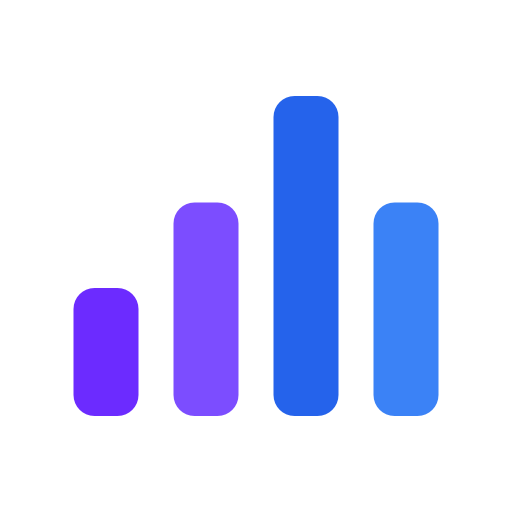
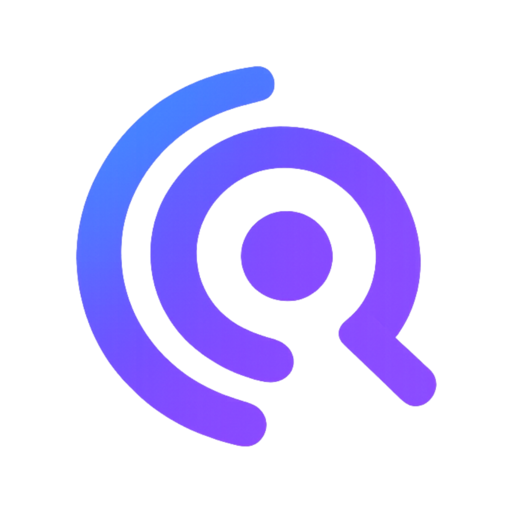
chore(brand): atualiza simbolo oficial para o novo desenho (aneis + Q) (#1550)
Propaga pra brand/ (fonte oficial) o simbolo que ja estava live na pagina
/brand do SignallQ Site (protótipo "SignallQ Web - Prototipo (4)"),
substituindo o simbolo antigo de 4 barras. Regenera favicon/PWA a partir
do novo simbolo (mesma receita documentada no brand/README.md: transparente
pros icones padrao, fundo branco + ~62% de escala pros maskable/apple-touch).

Corrige de quebra um bug real: src/app/favicon.ico do Site estava servindo
um icone generico (triangulo em circulo preto), sem nenhuma relacao com a
marca -- nao era so o simbolo antigo, estava quebrado.

Tambem atualiza SignallQ Site/public/brand/ (usado pelo componente Logo.tsx,
hoje sem nenhum import real no app -- import morto, nao removido aqui por
estar fora do escopo desta tarefa).

Fora de escopo, sinalizado no brand/README.md: icone do launcher Android
(mipmaps) e favicon do SignallQ Admin continuam com o simbolo antigo --
regeneracao pendente, exige release proprio de cada produto.

diff --git a/brand/README.md b/brand/README.md
@@ -4,22 +4,48 @@ Fonte da verdade dos logos do SignallQ. **Use somente estes arquivos** em qualqu
 material (app, apresentações, site, admin, loja, ícones). Não redesenhar, não recriar
 em CSS/SVG à mão, não usar a marca anterior "linka/veloo".
 
+## Símbolo novo — "anéis + Q" (2026-08-01)
+
+Substitui o símbolo anterior de 4 barras de sinal. Origem: protótipo `SignallQ Web -
+Prototipo (4).zip` (pasta Downloads do Luiz), tela `ScreenBrand.dc.html` — já em uso na página
+`/brand` real do `SignallQ Site` (`signallq-lockup-*-bg-v5.png` e `signallq-icon-*-dark.png`)
+antes desta atualização propagar para cá. Motivo da troca: pedido direto do Luiz para alinhar a
+marca oficial (`brand/`, usada por Android e Admin) ao que já estava live no Site.
+
+Os arquivos `signallq-symbol-*.png` novos foram gerados a partir de
+`signallq-icon-1024-app-store.png` (fundo branco sólido) via chroma-key (remoção do branco,
+sem outro branco presente na arte) — não é um export vetorial original; se precisar de mais
+fidelidade/resolução, gerar de novo a partir do projeto Claude Design de origem do protótipo.
+`signallq-lockup-*-bg.png` novos vêm do protótipo em resolução menor (994×276) que os
+anteriores (2334×784) — adequado para a maioria dos usos web/mobile, mas sem a mesma folga de
+upscaling do arquivo anterior.
+
+**Pendência aberta (fora do escopo desta rodada, sinalizada e não executada):**
+- Ícone do launcher Android (`android/app/src/main/res/mipmap-*/ic_launcher*`) continua com o
+  símbolo antigo (4 barras) — precisa ser regenerado a partir do novo `signallq-symbol-1024.png`
+  e passar por um release novo pra valer em produção.
+- Favicon do `SignallQ Admin/public/` continua com o símbolo antigo — mesma regeneração
+  pendente, não feita nesta rodada (só `brand/` e `SignallQ Site/` foram atualizados).
+
 ## Arquivos
 
 | Arquivo | Uso |
 |---|---|
-| `signallq-symbol-1024.png` | Símbolo (4 barras) isolado, fundo transparente, 1024px. Base para ícone de app e usos quadrados. |
+| `signallq-symbol-1024.png` | Símbolo (anéis + Q) isolado, fundo transparente, 1024px. Base para ícone de app e usos quadrados. |
 | `signallq-symbol-512.png` | Mesmo símbolo, 512px (usos menores / web). |
 | `signallq-lockup-light-bg.png` | Lockup horizontal (símbolo + wordmark) para **fundos claros** — "Signall" em quase-preto, "Q" em violeta. |
 | `signallq-lockup-dark-bg.png` | Lockup horizontal para **fundos escuros** — "Signall" em branco, "Q" em violeta. |
-| `signallq-feature-graphic-1024x500.png` | Feature graphic da Play Store (banner 1024×500). |
-| `signallq-icon-512-play-store.png` | Ícone de app para listagem da Play Store (512×512). |
+| `signallq-feature-graphic-1024x500.png` | Feature graphic da Play Store (banner 1024×500) — **ainda com o símbolo antigo, não coberto pelo protótipo desta rodada**. |
+| `signallq-icon-512-play-store.png` | Ícone de app para listagem da Play Store (512×512), fundo branco sólido. |
+| `signallq-icon-512-play-store-dark.png` | Mesmo ícone, fundo escuro `#131217` (novo nesta rodada). |
+| `signallq-icon-1024-app-store.png` / `-dark.png` | Mesmo ícone em 1024×1024, fundo claro/escuro (novo nesta rodada — reserva para uma eventual listagem iOS/App Store; SignallQ não publica em iOS hoje). |
 
 ## Anatomia
 
-- **Símbolo:** 4 barras de sinal com cantos arredondados, alturas curta · média · **alta** · média
-  (a 3ª barra é a mais alta), em degradê de cor da esquerda para a direita: **violeta → azul**
-  (violeta `#6C2BFF` no início, azul no fim). Cada barra tem sua própria cor da paleta.
+- **Símbolo:** anéis concêntricos (2 arcos + ponto central, referência a sinal/radar) com um
+  traço que se estende formando a "cauda" do "Q" (lupa), em degradê **azul → violeta** da
+  esquerda para a direita. Fundo transparente na versão isolada; fundo branco sólido ou
+  `#131217` nas versões "-dark" usadas como ícone de app.
 - **Wordmark:** "SignallQ" — "Signall" em `#0D0D1A` (fundo claro) ou branco (fundo escuro),
   e o **"Q" em violeta `#6C2BFF`**.
 
@@ -36,7 +62,8 @@ em CSS/SVG à mão, não usar a marca anterior "linka/veloo".
 O ícone do app deriva do **símbolo**. Os recursos em
 `android/app/src/main/res/mipmap-*/ic_launcher*` devem sempre corresponder a
 `signallq-symbol-1024.png`. Ao atualizar a marca, regenerar os mipmaps a partir deste símbolo.
-Estado atual (2026-07-05): já correspondem — confirmado visualmente, nenhuma ação necessária.
+**Estado atual (2026-08-01): DIVERGENTE** — o símbolo mudou (anéis + Q) mas os mipmaps ainda são
+o símbolo antigo (4 barras); regeneração pendente, ver "Pendência aberta" acima.
 
 ## Favicons / ícones web (`favicon/`)
 
@@ -51,8 +78,10 @@ funciona em fundo claro ou escuro sem precisar de variante própria).
 | `icon-192-maskable.png` / `icon-512-maskable.png` | PWA `manifest.json` (`purpose: maskable`) | Branco `#FFFFFF`, símbolo a ~62% (zona segura) |
 | `apple-touch-icon.png` (180×180) | iOS home screen | Branco `#FFFFFF` (iOS não aceita transparência) |
 
-Aplicado em `SignallQ Admin/public/` em 2026-07-05, substituindo um ícone antigo (Wi-Fi/scan)
-que não correspondia à marca. Regenerar a partir do mesmo símbolo se o ícone mudar.
+Aplicado em `SignallQ Site/` (`src/app/favicon.ico` + `public/icons/`) em 2026-08-01, junto da
+troca de símbolo — ver nota acima. **Ainda não reaplicado em `SignallQ Admin/public/`** (símbolo
+antigo, aplicado 2026-07-05, substituindo um ícone antigo de Wi-Fi/scan que não correspondia à
+marca) — regenerar a partir do mesmo símbolo quando essa frente for priorizada.
 
 **Pendente:** a landing page pública (`https://7agentsstudio.github.io/signallq/`) fica em
 repositório separado (`7agentsstudio` no GitHub, fora deste monorepo) — não verificado/atualizado
